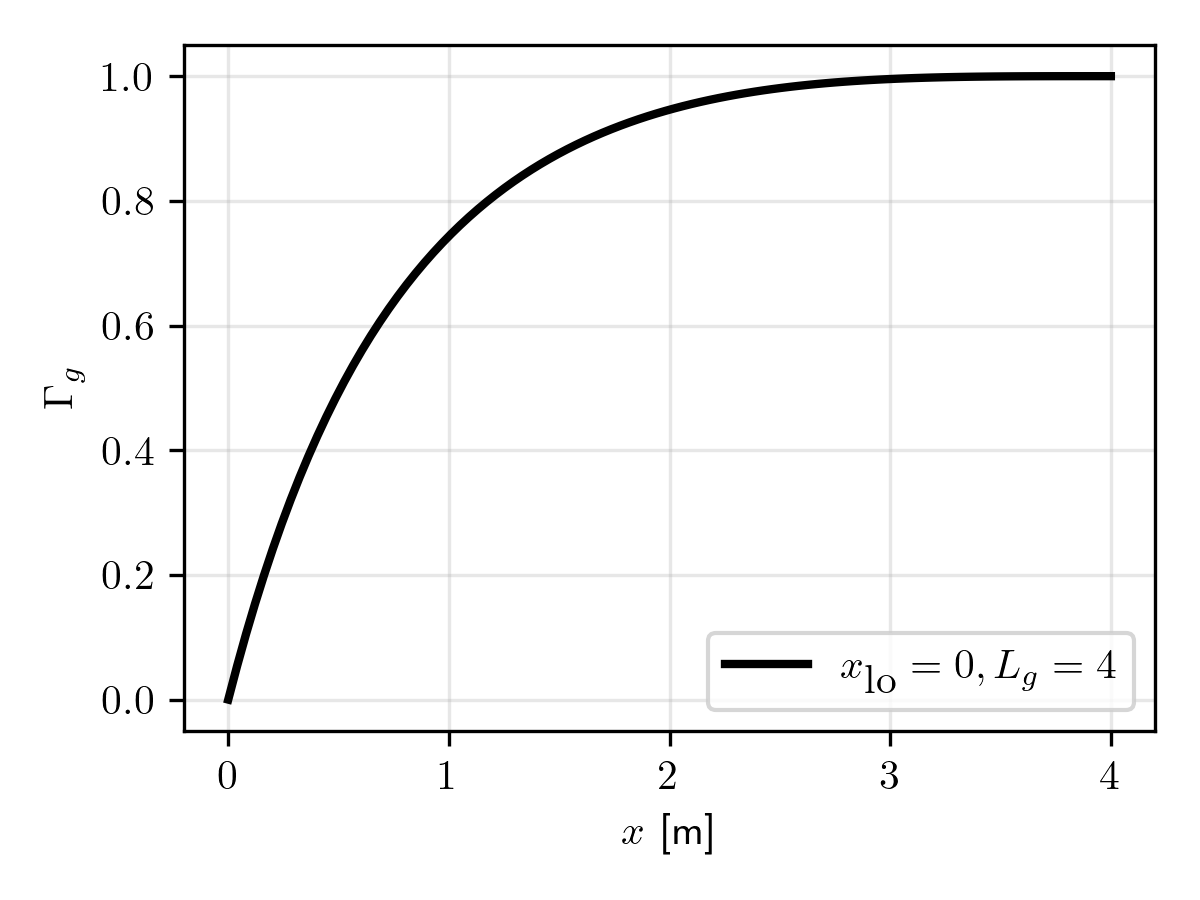
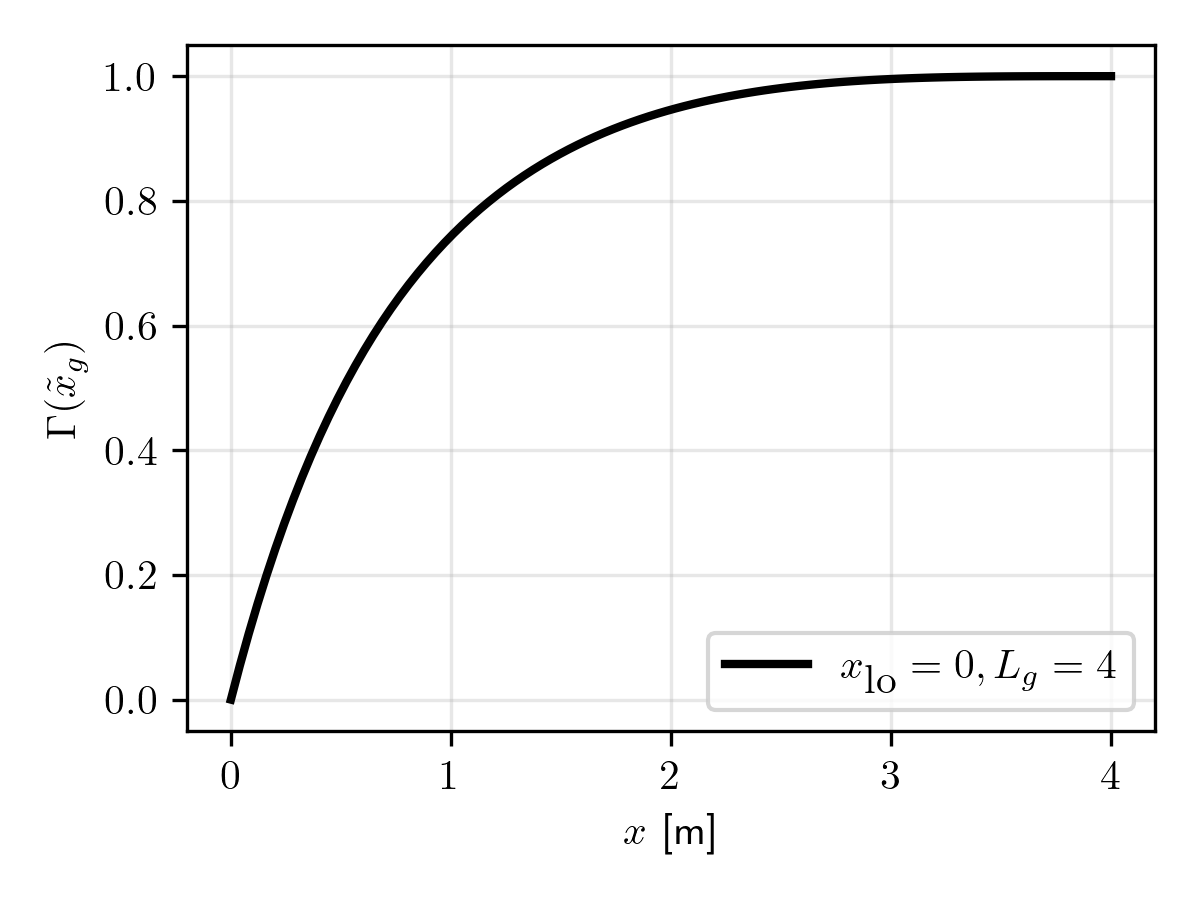
better y axis labels

diff --git a/simple_figures/plot_Gamma.py b/simple_figures/plot_Gamma.py
@@ -40,7 +40,7 @@ def main():
     plt.figure(figsize=(4, 3))
     plt.plot(xg, Gamma_g, "k", label=r'$x_\textrm{lo} = 0, L_g = 4$', linewidth=2)
     plt.xlabel(r'$x$ [m]' )
-    plt.ylabel(r'$\Gamma_g$')
+    plt.ylabel(r'$\Gamma(\tilde{x}_g)$')
     plt.grid(True, alpha=0.3)
     plt.legend()
     plt.tight_layout()
@@ -51,7 +51,7 @@ def main():
     plt.plot(xr2, Gamma_r2, "b:", label=r'$x_\textrm{hi} = 24, L_r = 8, B_r = 2$', linewidth=2)
     plt.plot(xr3, Gamma_r3, "r--", label=r'$x_\textrm{hi} = 20, L_r = 4, B_r = 2$', linewidth=2)
     plt.xlabel(r'$x$ [m]')
-    plt.ylabel(r'$\Gamma_r$')
+    plt.ylabel(r'$\Gamma(\tilde{x}_r)$')
     plt.grid(True, alpha=0.3)
     plt.legend()
     plt.tight_layout()
